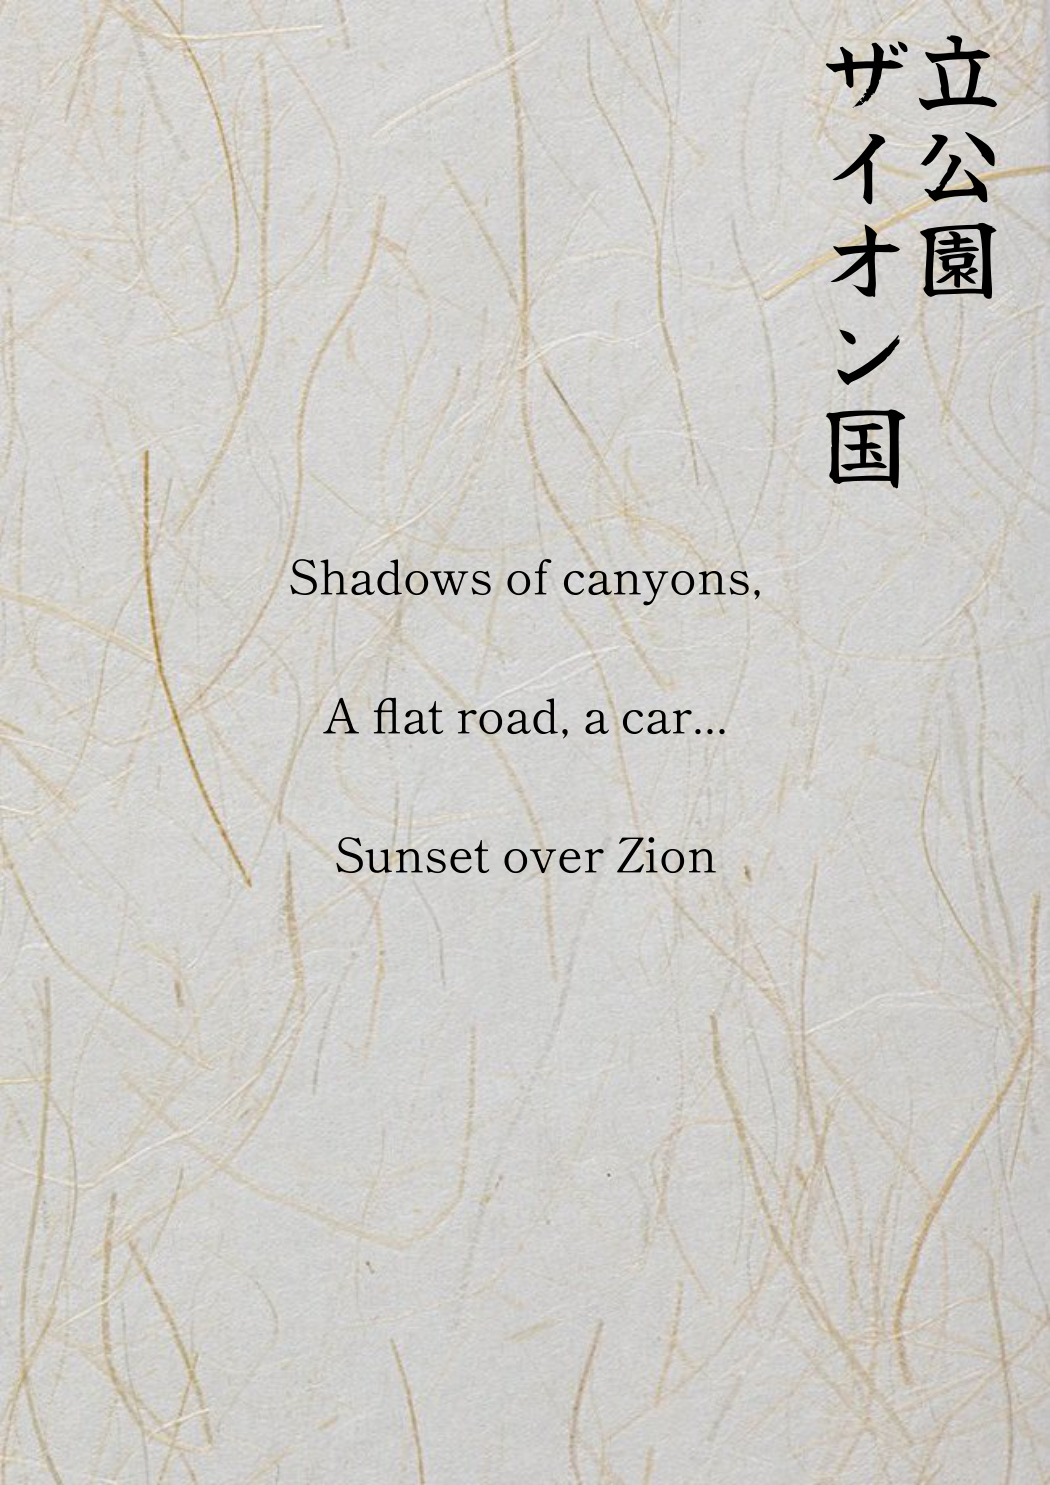
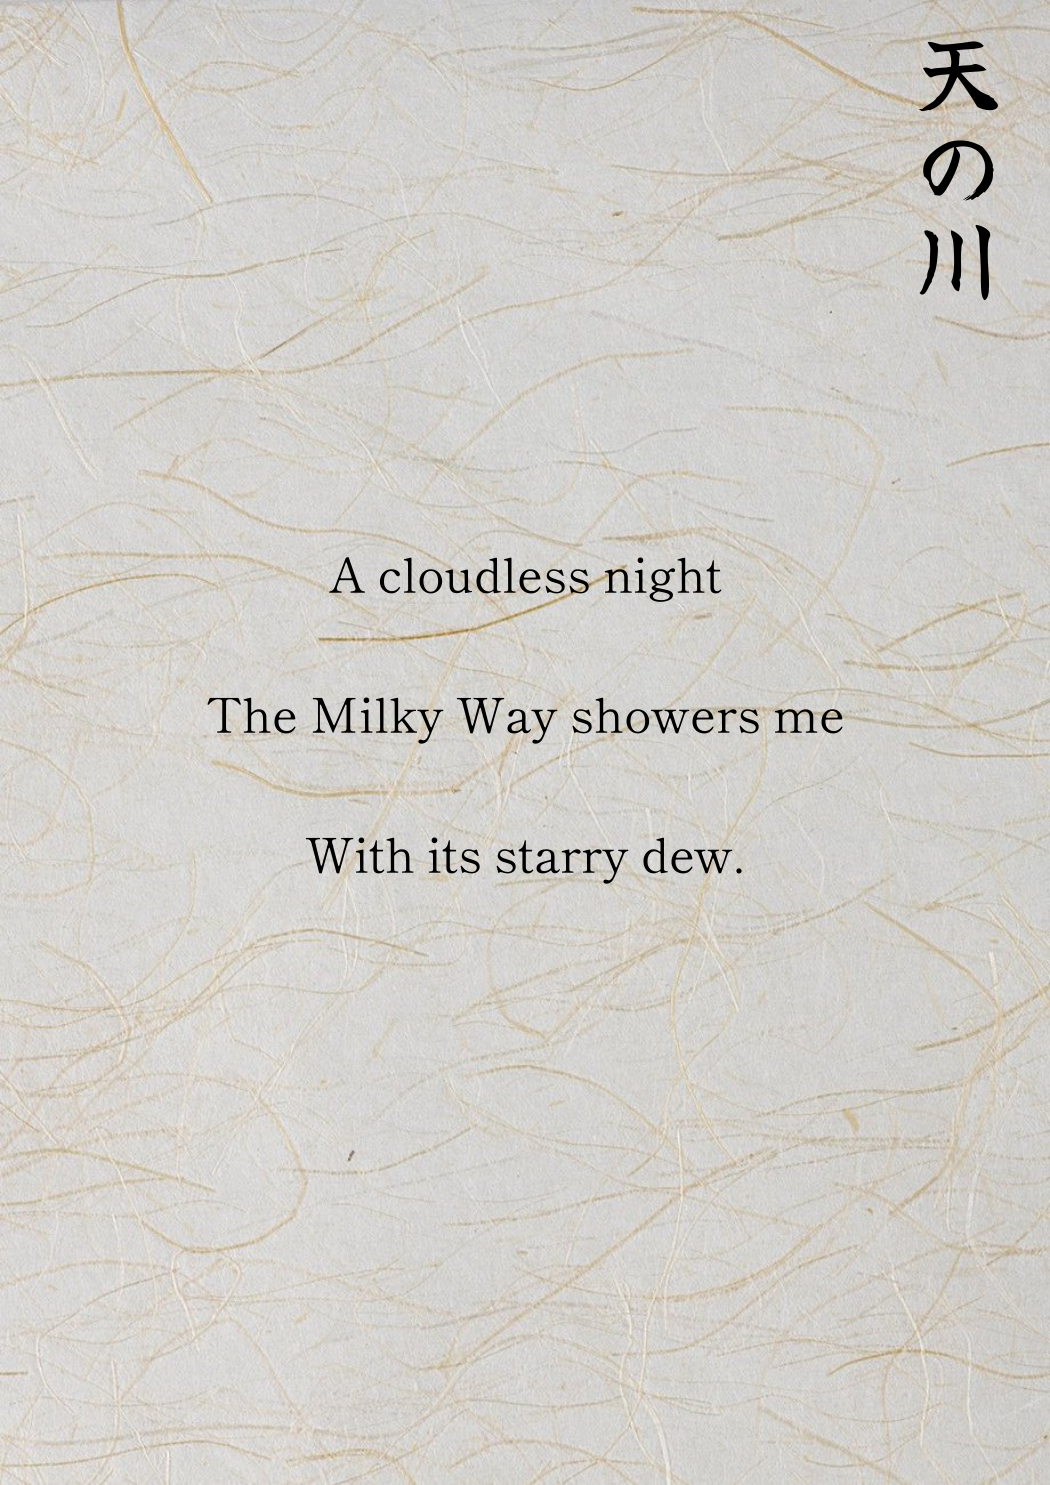
Can mint chosen haiku

diff --git a/source/server.ts b/source/server.ts
@@ -6,6 +6,7 @@ import arweaveRoutes from './routes/arweaveRoutes';
 import authRoutes from './routes/authRoutes';
 import { MONGO_CONNECTION_STRING } from './utils/secrets';
 import { generateHaiku } from './utils/generator';
+import openAiRoutes from './routes/openAiRoutes';
 
 /** Connect to MongoDB */
 mongoose.connect(MONGO_CONNECTION_STRING!, (error: CallbackError) => {
@@ -13,8 +14,8 @@ mongoose.connect(MONGO_CONNECTION_STRING!, (error: CallbackError) => {
 });
 
 // generateHaiku(
-//     "Zion National Park",
-//     "Shadows of canyons,\nA flat road, a car...\nSunset over Zion"
+//     "Developer Froggies",
+//     "They sit in the dew,\nEating their own spawn,\n~Oops!~"
 // );
 
 const router: Express = express();
@@ -43,6 +44,7 @@ router.use((req, res, next) => {
 
 /** Routes */
 router.use('/', authRoutes);
+router.use('/', openAiRoutes);
 router.use('/', arweaveRoutes);
 
 /** Error handling */

diff --git a/source/controllers/openAiController.ts b/source/controllers/openAiController.ts
@@ -1,0 +1,25 @@
+import { Request, Response, NextFunction } from 'express';
+
+const putHaikusFromTitle = async (request: Request, response: Response, next: NextFunction) => {
+
+    try {
+
+        const haiku1 = `They’re born in pixel caves,\n\ndemon networks weave but can be undone.\n\nCryptocurrency hackers do the math`
+
+        const haiku2 = `The soft wind blows\nthrough the blossoms of cherry trees.\nSigma sharks, attack!`
+
+        const haiku3 = `A cloudless night\nThe Milky Way showers me\nWith its starry dew.`
+
+        return response.status(201).json({
+            haikus: [
+                haiku1,
+                haiku2,
+                haiku3
+            ]
+        });
+    } catch (error) {
+        return response.status(500);
+    }
+}
+
+export default { putHaikusFromTitle };

diff --git a/source/controllers/arweaveController.ts b/source/controllers/arweaveController.ts
@@ -32,12 +32,12 @@ if (ENVIRONMENT === 'production') {
 }
 
 const putArweave = async (req: Request, res: Response, next: NextFunction) => {
-    // const haikuTitle = req.body.haikuTitle;
-    // const haikuContent = req.body.haikuContent;
+    const haikuTitle = req.body.haikuTitle;
+    const haikuContent = req.body.haikuContent;
 
     // For testing:
-    const haikuTitle = "Zion National Park"
-    const haikuContent = "Shadows of canyons,\nA flat road, a car...\nSunset over Zion";
+    // const haikuTitle = "Zion National Park"
+    // const haikuContent = "Shadows of canyons,\nA flat road, a car...\nSunset over Zion";
 
     const { finalImagePath, paperName } = await generateHaiku(
         haikuTitle,

diff --git a/source/utils/generator.js b/source/utils/generator.js
@@ -13,7 +13,7 @@ registerFont('source/assets/fonts/ShipporiMincho.ttf', { family: SHIPPORI_MINCHO
 
 export const generateHaiku = async (haikuTitle, haikuContent) => {
     haikuTitle = removePunctuation(haikuTitle);
-    haikuContent = removePunctuation(haikuContent);
+    // haikuContent = removePunctuation(haikuContent);
 
     // Haiku papers will be 10.5cm x 14.85cm
     const canvasWidth = 1050

diff --git a/source/routes/openAiRoutes.ts b/source/routes/openAiRoutes.ts
@@ -1,0 +1,12 @@
+import express from 'express';
+import controller from '../controllers/openAiController';
+import { requireJwtMiddleware } from '../middleware/jwtMiddleware';
+
+const router = express.Router();
+
+// all following routes protected by JWT middleware
+router.use(requireJwtMiddleware)
+
+router.put('/haiku', controller.putHaikusFromTitle);
+
+export = router;
